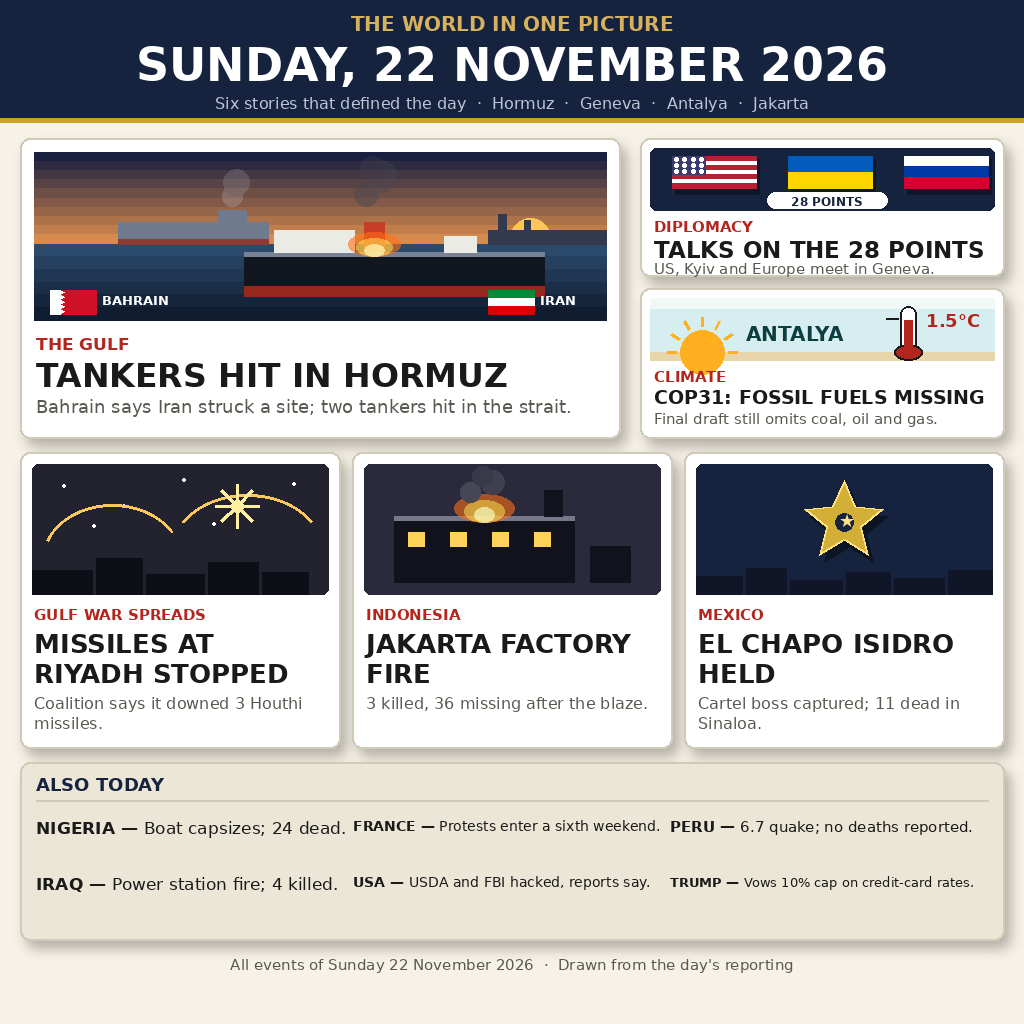
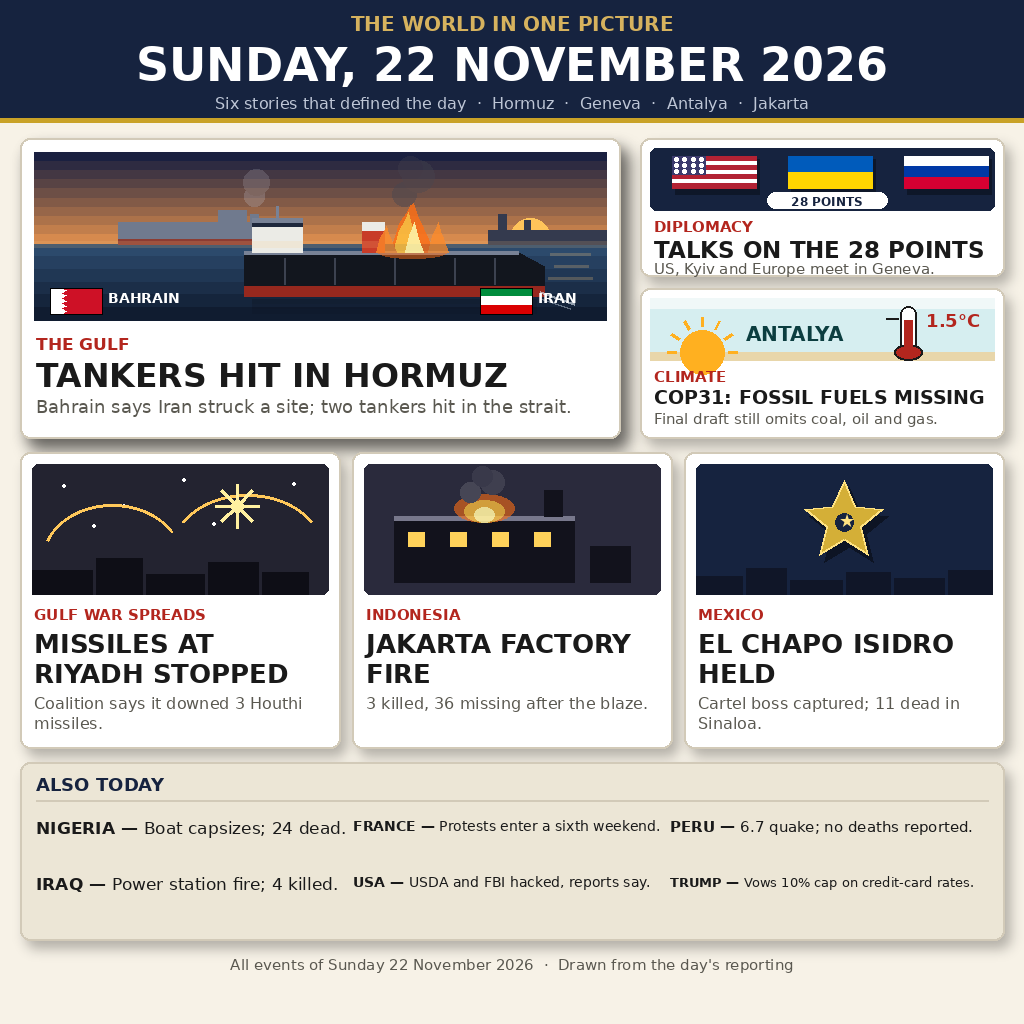
News-22 v2: lead tanker legibility — real ship silhouette, flame tongues, crisp flags, deeper lead depth

Changed region(s): [[0.0312, 0.125, 0.625, 0.4688], [0.0625, 0.2812, 0.1875, 0.3125], [0.0312, 0.2188, 0.125, 0.25]]

diff --git a/draw_front.py b/draw_front.py
@@ -187,6 +187,17 @@ def build():
     img.paste(sh, (0, 0), sh)
     d = ImageDraw.Draw(img)
 
+    # extra-deep shadow under the LEAD panel only (v2: lead legibility
+    # upgrade — the lead is the first thing the judge reads, so it gets
+    # the strongest depth cue; every other panel keeps the standard shadow)
+    sh2 = Image.new("RGBA", (W, H), (0, 0, 0, 0))
+    sd2 = ImageDraw.Draw(sh2)
+    sd2.rounded_rectangle([20 + 9, 138 + 12, 20 + 600 + 9, 138 + 300 + 12],
+                          radius=10, fill=(0, 0, 0, 110))
+    sh2 = sh2.filter(ImageFilter.GaussianBlur(8))
+    img.paste(sh2, (0, 0), sh2)
+    d = ImageDraw.Draw(img)
+
     # ---------- masthead (v1's, the proven one) ----------
     d.rectangle([0, 0, W, 118], fill=NAVY)
     d.rectangle([0, 118, W, 122], fill=GOLD)
@@ -224,44 +235,97 @@ def build():
         y0 = horizon + i * (ay + ah - horizon) // 6
         y1 = horizon + (i + 1) * (ay + ah - horizon) // 6
         d.rectangle([ax, y0, ax + aw, y1], fill=col)
-    # far tanker: small + hazed (background layer, guanmo-studio rule)
+    # far tanker: small + hazed (background layer, guanmo-studio rule) —
+    # v2 gives it the same silhouette as the near tanker (sloped bow,
+    # bridge, funnel) so it still reads as a ship at 300px, only hazed.
     fx, fy, fw, fh = ax + 84, horizon - 22, 150, 22
-    d.rectangle([fx, fy, fx + fw, fy + fh], fill=(112, 122, 142))
+    d.polygon([(fx, fy), (fx + fw - 12, fy), (fx + fw, fy + 8),
+               (fx + fw, fy + fh), (fx, fy + fh)], fill=(112, 122, 142))
     d.rectangle([fx + 100, fy - 12, fx + 128, fy], fill=(112, 122, 142))
+    d.rectangle([fx + 132, fy - 8, fx + 140, fy], fill=(112, 122, 142))
     d.rectangle([fx, fy + fh - 5, fx + fw, fy + fh], fill=(140, 60, 50))
     # Bahrain coast silhouette at the far right, low and hazed
     d.rectangle([ax + aw - 118, horizon - 14, ax + aw, horizon], fill=(52, 58, 78))
     d.rectangle([ax + aw - 108, horizon - 30, ax + aw - 100, horizon - 14], fill=(52, 58, 78))
     d.rectangle([ax + aw - 82, horizon - 24, ax + aw - 76, horizon - 14], fill=(52, 58, 78))
-    # near tanker: big + dark + sharp (foreground layer) with rim light
+    # near tanker: big + dark + sharp (foreground layer) with rim light.
+    # v2: a real ship silhouette — sloped bow, flat stern, deck hatches,
+    # bridge tower with a window band, funnel with a white top band, and a
+    # radar mast on the bridge — so it reads as a tanker even at 300px.
+    # (v1 was a plain dark bar with two white blocks.)
     nx, ny, nw, nh = ax + 210, horizon + 8, 300, 44
-    d.rectangle([nx, ny, nx + nw, ny + nh], fill=(18, 22, 30))
-    d.rectangle([nx, ny, nx + nw, ny + 4], fill=(120, 130, 150))  # rim light
+    d.polygon([(nx, ny), (nx + nw - 26, ny), (nx + nw, ny + 14),
+               (nx + nw, ny + nh), (nx, ny + nh)], fill=(18, 22, 30))
+    d.line([(nx, ny), (nx + nw - 26, ny)], fill=(120, 130, 150), width=4)  # rim light
     d.rectangle([nx, ny + nh - 10, nx + nw, ny + nh], fill=(150, 40, 30))
-    d.rectangle([nx + 30, ny - 22, nx + 110, ny], fill=(235, 235, 230))
-    d.rectangle([nx + 200, ny - 16, nx + 232, ny], fill=(235, 235, 230))
-    d.rectangle([nx + 120, ny - 30, nx + 140, ny], fill=(200, 60, 40))  # funnel
-    # smoke: far column light + small, near column tall + dark with fire glow
-    # (all centres clamped so no puff escapes the art box)
+    # deck hatches: vertical divisions along the deck
+    for hx in (nx + 40, nx + 90, nx + 150, nx + 210, nx + 250):
+        d.line([(hx, ny + 6), (hx, ny + nh - 12)], fill=(60, 66, 80), width=2)
+    # bridge tower at the stern (left): white block, dark window band,
+    # lit top edge, radar mast above it
+    d.rectangle([nx + 8, ny - 34, nx + 58, ny], fill=(235, 235, 230))
+    d.rectangle([nx + 8, ny - 34, nx + 58, ny - 26], fill=(30, 40, 60))
+    d.rectangle([nx + 8, ny - 34, nx + 58, ny - 30], fill=(120, 130, 150))
+    d.line([(nx + 33, ny - 46), (nx + 33, ny - 34)], fill=(120, 130, 150), width=3)
+    # funnel amidships with a white top band
+    d.rectangle([nx + 118, ny - 30, nx + 140, ny], fill=(200, 60, 40))
+    d.rectangle([nx + 118, ny - 30, nx + 140, ny - 22], fill=(235, 235, 230))
+    # smoke + fire + water: one RGBA overlay, all centres clamped inside
+    # the art box. The v1 fire was radial glow ellipses and read as a
+    # second sun — v2 draws real flame TONGUES: vertical jagged polygons
+    # anchored on the deck, layered orange/yellow/white, with a low
+    # under-glow on the deck itself.
     ov = Image.new("RGBA", (W, H), (0, 0, 0, 0))
     od = ImageDraw.Draw(ov)
-    for sx, sy, sr, a in [(fx + 114, fy - 26, 10, 60), (fx + 118, fy - 40, 13, 48)]:
+    # far tanker smoke, light + small, rising from its funnel
+    for sx, sy, sr, a in [(fx + 136, fy - 26, 10, 60), (fx + 138, fy - 40, 13, 48)]:
         od.ellipse([sx - sr, sy - sr, sx + sr, sy + sr], fill=(200, 200, 210, a))
-    # fire licking from the deck: glow ellipses centred on the hull top so
-    # they read as flames, not a second sun (v1 lesson: no floating sun)
-    od.ellipse([nx + 130 - 26, ny - 20, nx + 130 + 26, ny + 4], fill=(255, 110, 20, 150))
-    od.ellipse([nx + 130 - 18, ny - 14, nx + 130 + 18, ny + 4], fill=(255, 190, 60, 200))
-    od.ellipse([nx + 130 - 10, ny - 8, nx + 130 + 10, ny + 4], fill=(255, 240, 160, 230))
-    for sx, sy, sr, a in [(nx + 122, ny - 58, 12, 110), (nx + 136, ny - 76, 16, 90),
-                          (nx + 128, ny - 84, 12, 70)]:
+    # haze band along the horizon (atmospheric depth, very light)
+    od.rectangle([ax, horizon - 3, ax + aw, horizon + 3], fill=(255, 200, 130, 40))
+    # sun path: faint horizontal glints on the water right of the bow,
+    # under the setting sun (kept clear of the hull so no streak crosses it)
+    for gx, gy, gl in [(ax + 516, horizon + 10, 40), (ax + 520, horizon + 22, 34),
+                       (ax + 514, horizon + 34, 44)]:
+        od.line([(gx, gy), (gx + gl, gy)], fill=(255, 200, 120, 60), width=3)
+    # hull reflection: dark smear directly below the hull, fading downward
+    for i in range(3):
+        od.rectangle([nx + 8, ny + nh + 3 + i * 5, nx + nw - 8, ny + nh + 7 + i * 5],
+                     fill=(10, 14, 22, 70 - i * 20))
+    # bow wake: white V fanning from the bow into the foreground sea
+    od.line([(nx + nw - 4, ny + nh - 4), (nx + nw + 30, ny + nh + 8)],
+            fill=(210, 220, 230, 170), width=3)
+    od.line([(nx + nw - 4, ny + nh + 2), (nx + nw + 26, ny + nh + 12)],
+            fill=(170, 185, 200, 130), width=2)
+
+    def tongue(cx, base_y, w, h, fill):
+        """One vertical flame tongue: jagged teardrop, base on the deck."""
+        od.polygon([(cx - w, base_y), (cx - w * 0.55, base_y - h * 0.55),
+                    (cx - w * 0.15, base_y - h * 0.8), (cx, base_y - h),
+                    (cx + w * 0.25, base_y - h * 0.7),
+                    (cx + w * 0.5, base_y - h * 0.45), (cx + w, base_y)], fill=fill)
+
+    fxc = nx + 168  # fire station: mid-deck, forward of the funnel
+    od.ellipse([fxc - 34, ny - 6, fxc + 34, ny + 6], fill=(255, 110, 20, 130))
+    tongue(fxc, ny, 22, 52, (255, 110, 20, 200))
+    tongue(fxc - 4, ny, 15, 40, (255, 190, 60, 220))
+    tongue(fxc + 2, ny, 9, 30, (255, 240, 160, 240))
+    tongue(fxc - 26, ny, 10, 26, (255, 140, 40, 190))
+    tongue(fxc + 26, ny, 10, 30, (255, 140, 40, 190))
+    # smoke above the fire: tall + dark, rising from the flame station
+    for sx, sy, sr, a in [(fxc - 8, ny - 58, 12, 110), (fxc + 6, ny - 76, 16, 90),
+                          (fxc - 2, ny - 84, 12, 70)]:
         od.ellipse([sx - sr, sy - sr, sx + sr, sy + sr], fill=(70, 70, 80, a))
     img.paste(ov, (0, 0), ov)
     d = ImageDraw.Draw(img)
-    # two flags in the art's lower corners, small, with the parties named
-    flag_bh(d, ax + 16, ay + ah - 30, 46, 24)
-    d.text((ax + 68, ay + ah - 28), "BAHRAIN", font=font(13, bold=True), fill=WHITE)
-    flag_ir(d, ax + aw - 118, ay + ah - 30, 46, 24)
-    d.text((ax + aw - 66, ay + ah - 28), "IRAN", font=font(13, bold=True), fill=WHITE)
+    # two flags in the art's lower corners, bigger + outlined so they read
+    # crisp at 300px, with the parties named
+    flag_bh(d, ax + 16, ay + ah - 32, 52, 26)
+    d.rectangle([ax + 16, ay + ah - 32, ax + 68, ay + ah - 6], outline=(0, 0, 0), width=1)
+    d.text((ax + 74, ay + ah - 30), "BAHRAIN", font=font(14, bold=True), fill=WHITE)
+    flag_ir(d, ax + aw - 126, ay + ah - 32, 52, 26)
+    d.rectangle([ax + aw - 126, ay + ah - 32, ax + aw - 74, ay + ah - 6],
+                outline=(0, 0, 0), width=1)
+    d.text((ax + aw - 68, ay + ah - 30), "IRAN", font=font(14, bold=True), fill=WHITE)
     # text
     tx = lx + 16
     ty = ly + 196
